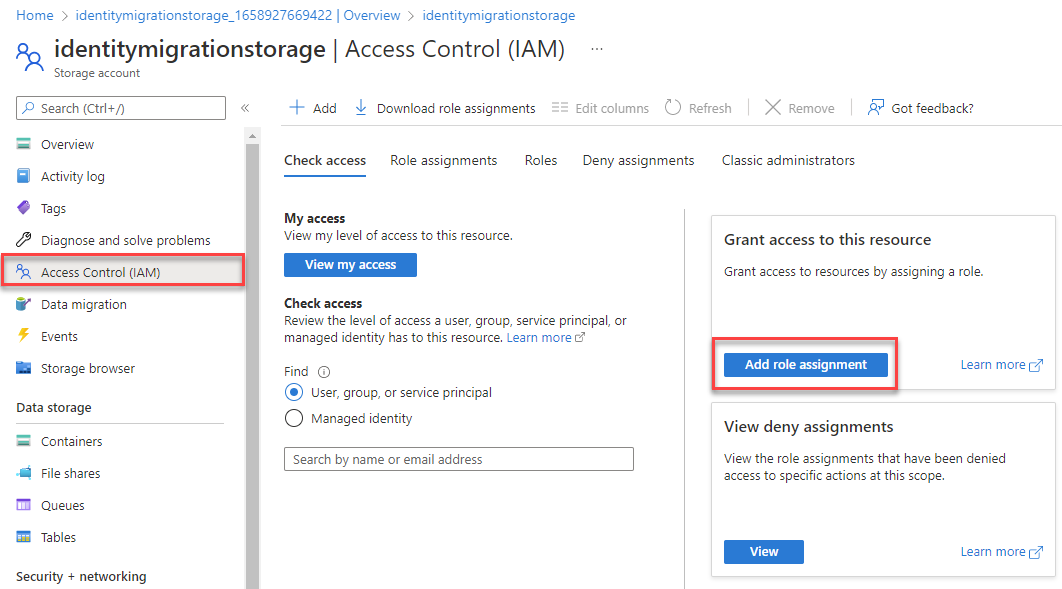
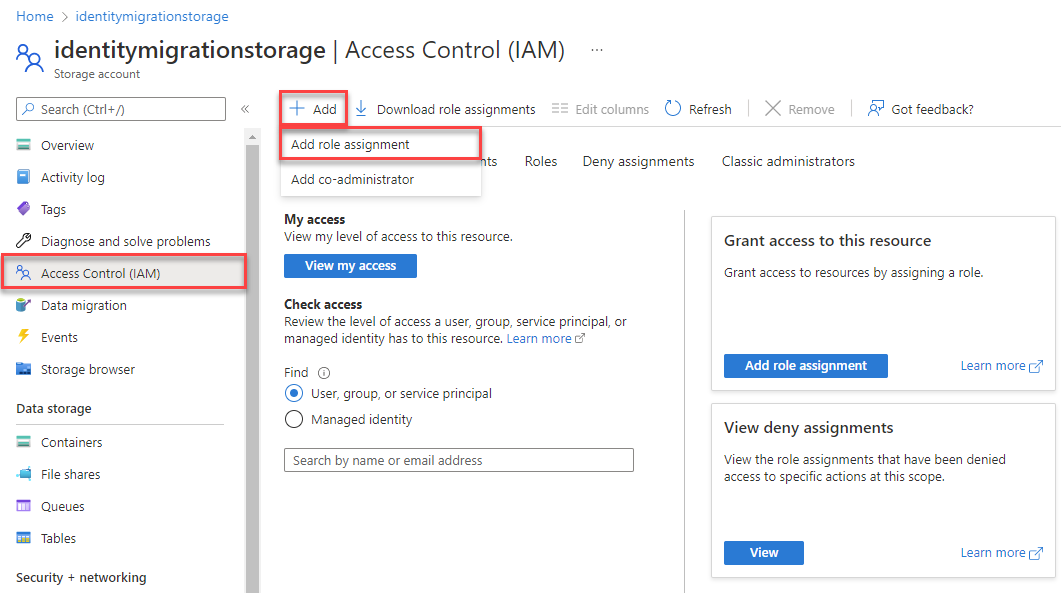
fixed screenshot

diff --git a/articles/ux-beta/includes/storage-quickstart-credential-free-include.md b/articles/ux-beta/includes/storage-quickstart-credential-free-include.md
@@ -14,7 +14,7 @@ ms.custom: include file
 
 Application requests to Azure Blob Storage must be authenticated. Many Azure services support credential-free connections such as Azure's Managed Identity or Role Based Access control (RBAC). These techniques provide robust security features and can be implemented using `DefaultAzureCredential` from the Azure Identity client libraries.
 
-Azure Blob Storage also provides the option to authenticate using traditional connection strings, but this approach should be used with caution. Developers must be diligent to never expose the connection string in an unsecure location. Anyone who gains access to the key is able to authenticate. `DefaultAzureCredential` offers improved management and security benefits over connection strings to allow credential-free authentication. Both options are demonstrated in the following example.
+You can also authorize requests to Azure Blob Storage by using the account access key. However, this approach should be used with caution. Developers must be diligent to never expose the access key in an unsecure location. Anyone who gains access to the access key is able to authenticate. `DefaultAzureCredential` offers improved management and security benefits over the account key to allow credential-free authentication. Both options are demonstrated in the following example.
 
 ## [Credential-free (Recommended)](#tab/managed-identity)
 
@@ -44,8 +44,8 @@ You can authenticate your local app to the Blob Storage account you created usin
     dotnet add package Azure.Identity
     ```
 
-    Azure services can be accessed using corresponding client classes from the SDK. These classes should be registered in the *Program.cs* file so they can be accessed via dependency injection throughout your app. 
-    
+    Azure services can be accessed using corresponding client classes from the SDK. These classes should be registered in the *Program.cs* file so they can be accessed via dependency injection throughout your app.
+
 3. Update your *Program.cs* code to match the following example. When the code is run on your local workstation during development, it will use the developer credentials of the prioritized tool you're logged into to authenticate to Azure, such as the Azure CLI or Visual Studio.
 
     ```csharp

diff --git a/articles/ux-beta/includes/assign-roles.md b/articles/ux-beta/includes/assign-roles.md
@@ -25,21 +25,19 @@ The following example will assign the `Storage Blob Data Contributor` role to yo
 
 1. In the Azure portal, locate your storage account using the main search bar or left navigation.
 
-2. On the storage account overview page, select **Access control (IAM)** from the left-hand menu.	
+1. On the storage account overview page, select **Access control (IAM)** from the left-hand menu.	
 
-3. On the **Access control (IAM)** page, select the **Role assignments** tab.
-
-4. Select **+ Add** from the top menu and then **Add role assignment** from the resulting drop-down menu.
+1. On the **Access control (IAM)** page, select **+ Add** from the top menu and then **Add role assignment** from the resulting drop-down menu.
 
     :::image type="content" source="../media/migration-add-role.png" alt-text="A screenshot showing how to assign a role.":::
 
-5. Use the search box to filter the results to the desired role. For this example, search for *Storage Blob Data Contributor* and select the matching result and then choose **Next**.
+1. Use the search box to filter the results to the desired role. For this example, search for *Storage Blob Data Contributor* and select the matching result and then choose **Next**.
 
-6. Under **Assign access to**, select **User, group, or service principal**, and then choose **+ Select members**.
+1. Under **Assign access to**, make sure **User, group, or service principal** is selected, and then choose **+ Select members**.
 
-7. In the dialog, search for your Azure AD username (usually your email address) and then choose **Select** at the bottom of the dialog. 
+1. In the dialog, search for your Azure AD username (usually your email address) and then choose **Select** at the bottom of the dialog. 
 
-8. Select **Review + assign** to go to the final page, and then **Review + assign** again to complete the process.
+1. Select **Review + assign** to go to the final page, and then **Review + assign** again to complete the process.
 
 ### [Azure CLI](#tab/roles-azure-cli)
 
